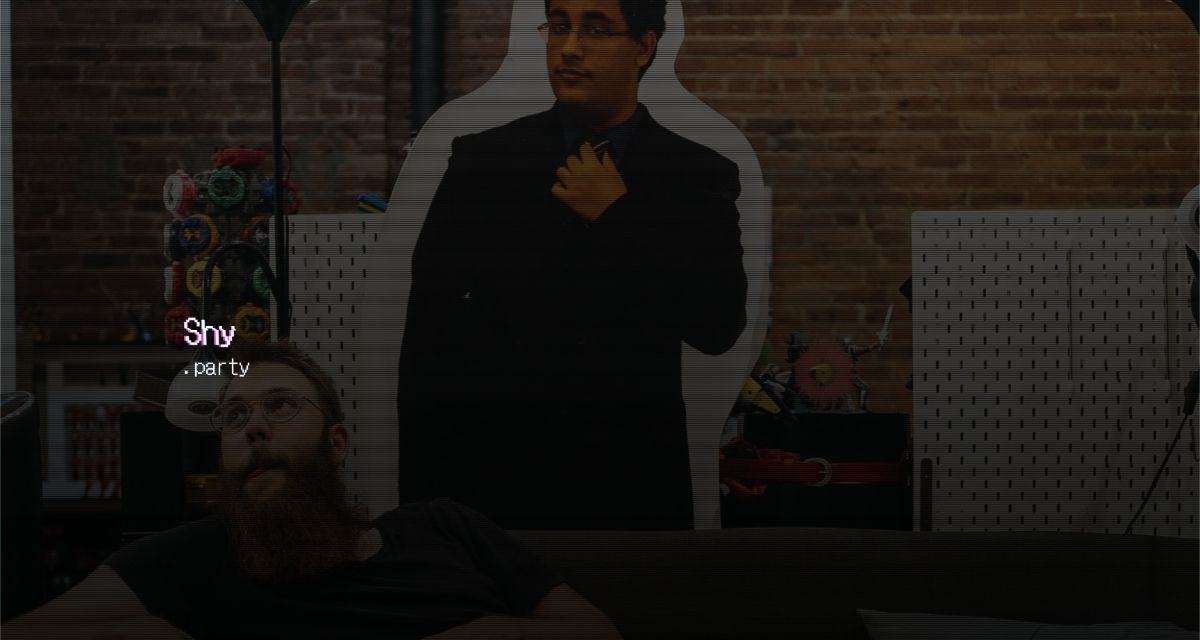
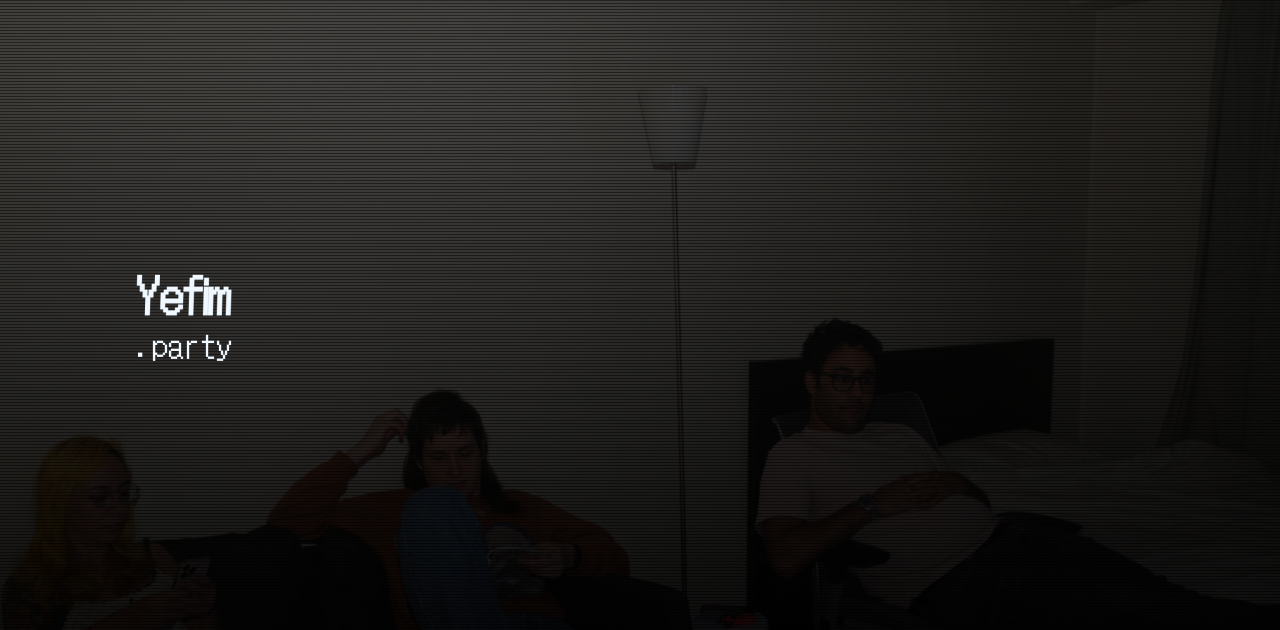
21 prep

diff --git a/app/templates/base.html b/app/templates/base.html
@@ -5,15 +5,18 @@
         <meta charset="UTF-8" />
 
         <!-- HTML Meta Tags -->
-        <title>Shy.Party</title>
-        <meta name="description" content="Shy.Party is a worse version of Partiful. " />
+        <title>Yefim.Party</title>
+        <meta
+            name="description"
+            content="Yefim.Party is a worse version of Partiful. "
+        />
 
         <!-- Facebook Meta Tags -->
         <meta property="og:url" content="https://www.shy.party/" />
         <meta property="og:type" content="website" />
         <meta
             property="og:description"
-            content="Shy.Party is a worse version of Partiful."
+            content="Yefim.Party is a worse version of Partiful."
         />
         <meta
             property="og:image"
@@ -22,12 +25,12 @@
 
         <!-- Twitter Meta Tags -->
         <meta name="twitter:card" content="summary_large_image" />
-        <meta property="twitter:domain" content="shy.party" />
+        <meta property="twitter:domain" content="Yefim.party" />
         <meta property="twitter:url" content="https://www.shy.party/" />
 
         <meta
             name="twitter:description"
-            content="Shy.Party is a worse version of Partiful. "
+            content="Yefim.Party is a worse version of Partiful. "
         />
         <meta
             name="twitter:image"
@@ -45,8 +48,8 @@
         />
         {% else %}
         <title>Yefim.Party</title>
-        <meta property="og:title" content="Shy.party" />
-        <meta name="twitter:title" content="Shy.Party" />
+        <meta property="og:title" content="Yefim.party" />
+        <meta name="twitter:title" content="Yefim.Party" />
         {% endif %}
         <link inline rel="preconnect" href="https://fonts.gstatic.com" />
         <link

diff --git a/app/templates/attendee_rsvp.html b/app/templates/attendee_rsvp.html
@@ -34,7 +34,7 @@ url_for("static",filename="images/index.jpg") }}{% endblock %} {% block content 
             <p class="subtitle is-size-4">What is this website?</p>
             <p class="content">
                 <a href="https://youtu.be/gu0SjNfSzyQ"
-                    >Shy.Party is a worse version of partiful</a
+                    >Yefim.Party is a worse version of partiful</a
                 >. This page specifically is your private event page for
                 {{event.event}}. Revisit this link to update your RSVP.
             </p>
